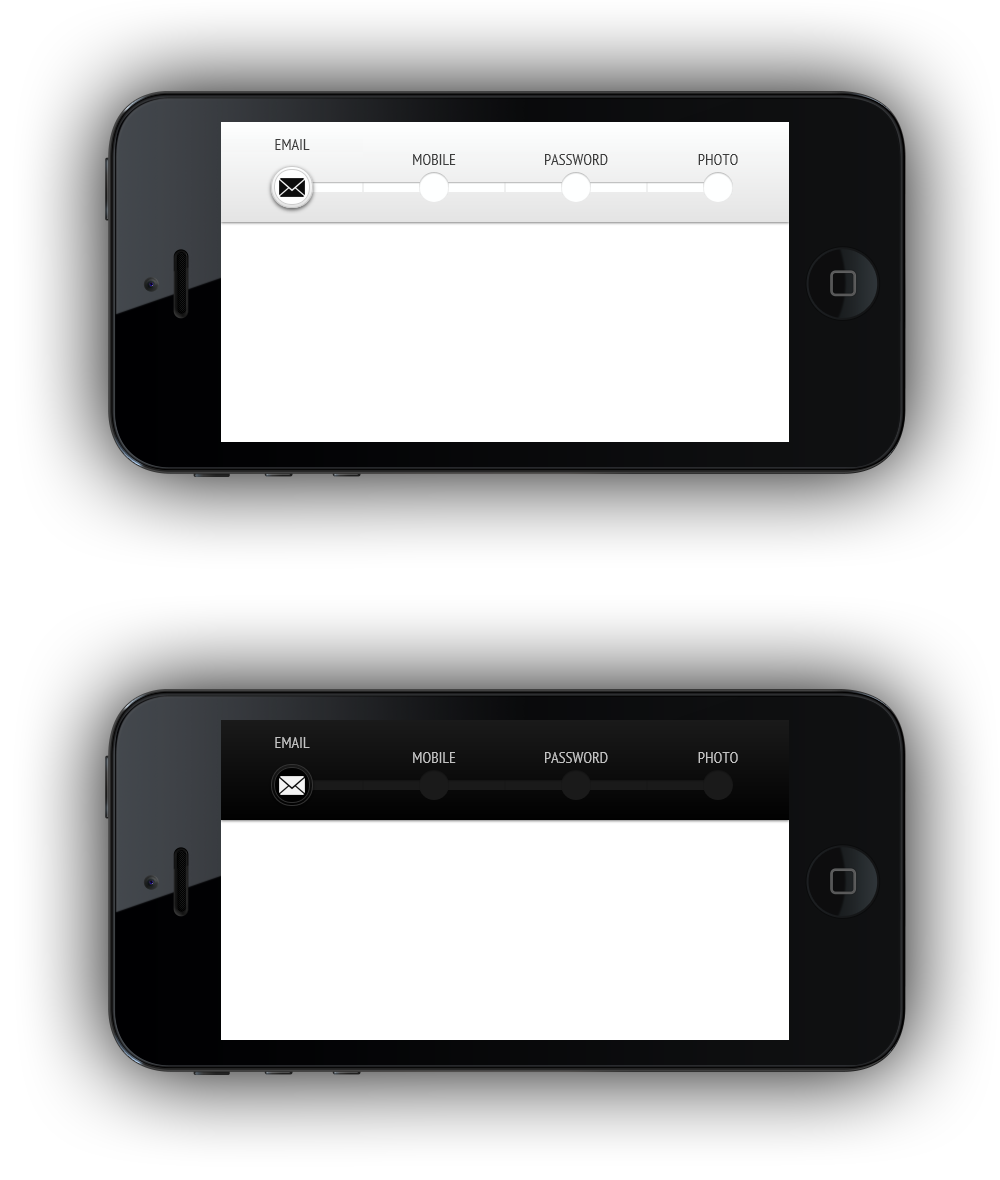
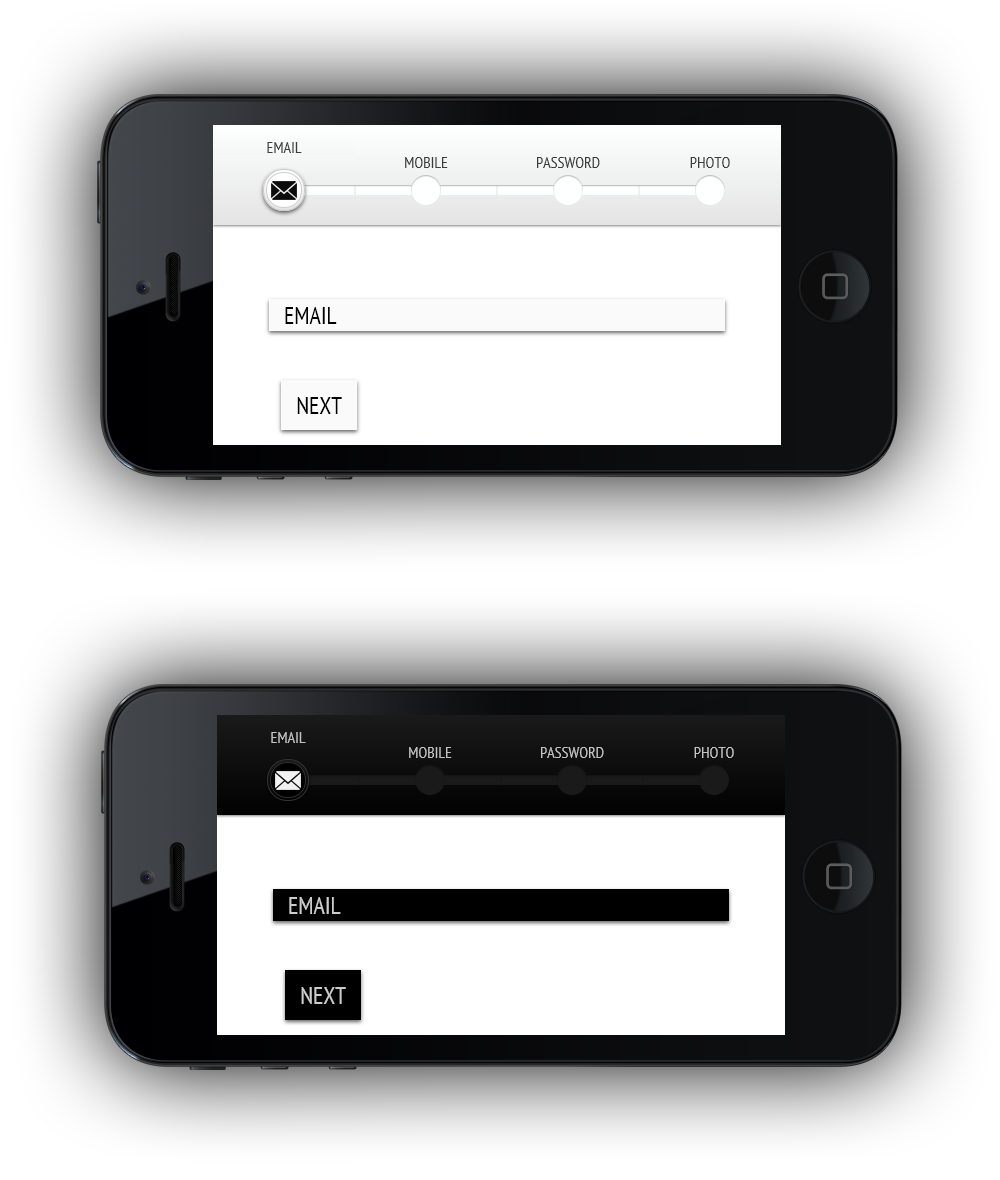
UBERIZE v1.0.0
Uberize jQuery Plugin (uber app form)

diff --git a/jquery.UBERIZE.js b/jquery.UBERIZE.js
@@ -7,6 +7,8 @@
  *
  * LEGEND:
  * lT 	= label text (example/default is 4 labels)
+ * iFT 	= input field type (example/default is 4 fields)
+ * iBT 	= input button type (example/default is 4 fields)
  * lTC 	= label text color
  * piXY = puck icons XY coordinates (example/default is 4 icons)
  * mBC 	= main background color is made of 3 rgb values (top and bottom colors and opacity)
@@ -17,6 +19,10 @@
  * lBC 	= line background color is made of 3 rgb values (top and bottom colors and opacity)
  * cBC 	= circle background color is made of 3 rgb values (top and bottom colors and opacity)
  * mW 	= main width
+ * iFBC = input field background color
+ * iBBC = input button background color
+ * iFTC = input field text color
+ * iBTC = input button text color
  *
  * USAGE:
  * $('some_div').uberize({name1:'value1',name2:'value2',etc...});
@@ -24,6 +30,8 @@
 ;(function($) {
 var defaults = {
 lT:['EMAIL','MOBILE','PASSWORD','PHOTO'],
+iFT:['email','tel','password','file'],
+iBT:['button','button','button','submit'],
 lTC:'#CCC',
 piXY:['0 0','0 -34px','0 -68px','0 -102px'],
 mBC:['26,26,26','1,1,1','1'],
@@ -33,9 +41,13 @@ pI:['#000','icons_white.png'],
 pIBC:'#333',
 lBC:['26,26,26','26,26,26','1'],
 cBC:['26,26,26','26,26,26','1'],
-mW:'100%'
+mW:'100%',
+iFBC:'#000',
+iBBC:'#000',
+iFTC:'#CCC',
+iBTC:'#CCC'
 };
-$.fn.uberize = function(options) {	
+$.fn.uberize = function(options) {
 options = $.extend(true,{},defaults,options);
 return this.each(function() {
 var elem = this, $elem = $(elem);
@@ -46,10 +58,19 @@ $('<div>',{id:'labelTop'}).appendTo(this);
 $('<div>',{id:'labelBottom'}).appendTo(this);
 $('<div>',{id:'circles'}).appendTo(this);
 $('<div>',{id:'puck'}).append($('<div>',{id:'puckPlacer'}).append($('<div>',{id:'puckBgnd'}).append($('<div>',{id:'puckIcon'})))).appendTo(this);
+$('<div id=\''+elem.id+'Form\'></div>').insertAfter(this);
+$('<form>',{name:'uberForm',id:'uberForm',method:'post',enctype:'multipart/form-data'}).appendTo('#'+elem.id+'Form');
 for(var i=0;i<maxNumber;i++) {
 $('<div>',{id:'labelTop'+(i+1),class:'uberLabelTop',html:options.lT[i]}).appendTo('#labelTop');
 $('<div>',{id:'labelBottom'+(i+1),class:'uberLabelBottom',html:options.lT[i]}).appendTo('#labelBottom');
 $('<div>',{id:'circlePlacer'+(i+1),class:'uberCirclePlacer'}).append($('<div>',{id:'circle'+(i+1),class:'uberCircle'}),$('<div>',{id:'line'+(i+1),class:'uberLine'})).appendTo('#circles');
+$('<div>',{id:'stepField'+(i+1)}).appendTo('#uberForm');
+$('#stepField'+(i+1)).css({display:(((i+1)==1)?'block':'none'),minHeight:'100px',position:'relative'});
+if (options.iFT[i]=='file') $('<input>',{name:options.lT[i].toLowerCase(),type:options.iFT[i],accept:'image/*;capture=camera',class:'uberField',style:'background-color:'+options.iFBC+';color:'+options.iFTC+';'}).appendTo('#stepField'+(i+1));
+else $('<input>',{name:options.lT[i].toLowerCase(),type:options.iFT[i],placeholder:options.lT[i],class:'uberField',style:'background-color:'+options.iFBC+';color:'+options.iFTC+';'}).appendTo('#stepField'+(i+1));
+$('<div>',{id:'stepButton'+(i+1)}).appendTo('#uberForm');
+$('#stepButton'+(i+1)).css({display:(((i+1)==1)?'block':'none'),minHeight:'100px',position:'relative'});
+$('<button>',{id:'stepok'+(i+1),type:options.iBT[i],text:(((i+1)==maxNumber)?'SUBMIT':'NEXT'),class:'uberButton',style:'background-color:'+options.iBBC+';color:'+options.iBTC+';'}).appendTo('#stepButton'+(i+1));
 $('.uberLabelTop,.uberLabelBottom,.uberCirclePlacer,#puckPlacer').css({width:labelWidth});
 if ((i+1)==1) $('#line'+(i+1)).css({width:'50%',float:'right'});
 if ((i+1)==maxNumber) $('#line'+(i+1)).css({width:'50%',float:'left'});
@@ -57,13 +78,34 @@ $('#labelTop'+(i+1)).css({visibility:(((i+1)==1)?'visible':'hidden')});
 $('#labelBottom'+(i+1)).css({visibility:(((i+1)==1)?'hidden':'visible')});
 (function(j) {
 $('#labelBottom'+j+',#circle'+j).click(function(event) {
-$('#puck').stop().animate({'left':$('#circle'+j).position().left+'px'},"slow","swing",function(){$('#puckIcon').css({backgroundPosition:options.piXY[j-1]});});
+$('#puck').stop().animate({'left':$('#circle'+j).position().left+'px'},'slow','swing',function(){$('#puckIcon').css({backgroundPosition:options.piXY[j-1]});});
 $('#labelTop'+j).css({visibility:'visible'});
 $('#labelBottom'+j).css({visibility:'hidden'});
-for(var k=1;k<=maxNumber;k++){
-if (k!=j){
+$('#stepField'+j).css({display:'block'});
+$('#stepButton'+j).css({display:'block'});
+for(var k=1;k<=maxNumber;k++) {
+if (k!=j) {
 $('#labelTop'+k).css({visibility:'hidden'});
 $('#labelBottom'+k).css({visibility:'visible'});
+$('#stepField'+k).css({display:'none'});
+$('#stepButton'+k).css({display:'none'});
+}}
+event.preventDefault();
+});
+})(i+1);
+(function(j) {
+$('#stepok'+j).click(function(event) {
+$('#puck').stop().animate({'left':$('#circle'+(j+1)).position().left+'px'},'slow','swing',function(){$('#puckIcon').css({backgroundPosition:options.piXY[j]});});
+$('#labelTop'+(j+1)).css({visibility:'visible'});
+$('#labelBottom'+(j+1)).css({visibility:'hidden'});
+$('#stepField'+(j+1)).css({display:'block'});
+$('#stepButton'+(j+1)).css({display:'block'});
+for(var k=1;k<=maxNumber;k++) {
+if (k!=(j+1)) {
+$('#labelTop'+k).css({visibility:'hidden'});
+$('#labelBottom'+k).css({visibility:'visible'});
+$('#stepField'+k).css({display:'none'});
+$('#stepButton'+k).css({display:'none'});
 }}
 event.preventDefault();
 });
@@ -74,6 +116,7 @@ $('#puckBgnd').css({background:'linear-gradient(to bottom,rgba('+options.pBC[0]+
 $('#puckIcon').css({background:options.pI[0]+' url('+options.pI[1]+') 0 0',border:options.pIBC+' 1px solid'});
 $('.uberLine').css({background:'linear-gradient(to bottom,rgba('+options.lBC[0]+','+options.lBC[2]+') 0%,rgba('+options.lBC[1]+','+options.lBC[2]+') 100%)'});
 $('.uberCircle').css({background:'linear-gradient(to bottom,rgba('+options.cBC[0]+','+options.cBC[2]+') 0%,rgba('+options.cBC[1]+','+options.cBC[2]+') 100%)'});
+$('#'+elem.id+'Form').css({clear:'both',width:options.mW,color:options.lTC});
 });
 return this;
 }

diff --git a/scripts.js b/scripts.js
@@ -1,7 +1,7 @@
 $(document).ready(function() {
 //black menu
-$('#uberDiv').uberize({lT:['EMAIL','MOBILE','PASSWORD','PHOTO'],lTC:'#CCC',iXY:['0 0','0 -34px','0 -68px','0 -102px'],mBC:['26,26,26','1,1,1','1'],pBC:['26,26,26','1,1,1','1'],pBBC:'#333',pI:['#000','icons_white.png'],pIBC:'#333',lBC:['26,26,26','26,26,26','1'],cBC:['26,26,26','26,26,26','1'],mW:'100%'});
+$('#uberDiv').uberize({lT:['EMAIL','MOBILE','PASSWORD','PHOTO'],iFT:['email','tel','password','file'],iBT:['button','button','button','submit'],lTC:'#CCC',iXY:['0 0','0 -34px','0 -68px','0 -102px'],mBC:['26,26,26','1,1,1','1'],pBC:['26,26,26','1,1,1','1'],pBBC:'#333',pI:['#000','icons_white.png'],pIBC:'#333',lBC:['26,26,26','26,26,26','1'],cBC:['26,26,26','26,26,26','1'],mW:'100%',iFBC:'#000',iBBC:'#000',iFTC:'#CCC',iBTC:'#CCC'});
 //white menu
-//$('#uberDiv').uberize({lT:['EMAIL','MOBILE','PASSWORD','PHOTO'],lTC:'#333',iXY:['0 0','0 -34px','0 -68px','0 -102px'],mBC:['254,255,255','228,228,228','1'],pBC:['254,255,255','228,228,228','1'],pBBC:'#CCC',pI:['#FFF','icons_black.png'],pIBC:'#CCC',lBC:['254,255,255','254,255,255','1'],cBC:['254,255,255','254,255,255','1'],mW:'100%'});
+//$('#uberDiv').uberize({lT:['EMAIL','MOBILE','PASSWORD','PHOTO'],iFT:['email','tel','password','file'],iBT:['button','button','button','submit'],lTC:'#333',iXY:['0 0','0 -34px','0 -68px','0 -102px'],mBC:['254,255,255','228,228,228','1'],pBC:['254,255,255','228,228,228','1'],pBBC:'#CCC',pI:['#FFF','icons_black.png'],pIBC:'#CCC',lBC:['254,255,255','254,255,255','1'],cBC:['254,255,255','254,255,255','1'],mW:'100%',iFBC:'#FAFAFA',iBBC:'#FAFAFA',iFTC:'#000',iBTC:'#000'});
 $('<link/>',{rel:"stylesheet",type:"text/css",href:"jquery.UBERIZE.css"}).appendTo("head");
 });

diff --git a/jquery.UBERIZE.css b/jquery.UBERIZE.css
@@ -82,3 +82,33 @@ border-radius:17px;
 margin:2px;
 opacity:0.95;
 }
+.uberField {
+height:30px;
+width:75%;
+position:absolute;
+top:0;
+left:0;
+right:0;
+bottom:0;
+margin:auto;
+border:none;
+-webkit-box-shadow:0px 2px 6px 0px rgba(0,0,0,0.6);
+-moz-box-shadow:0px 2px 6px 0px rgba(0,0,0,0.6);
+box-shadow:0px 2px 6px 0px rgba(0,0,0,0.6);
+padding-left:15px;
+padding-right:15px;
+font-size:150%;
+font-family:'PT Sans Narrow',sans-serif;
+}
+.uberButton {
+height:50px;
+margin-top:15px;
+margin-left:12%;
+padding:5px 15px;
+border:none;
+-webkit-box-shadow:0px 2px 6px 0px rgba(0,0,0,0.6);
+-moz-box-shadow:0px 2px 6px 0px rgba(0,0,0,0.6);
+box-shadow:0px 2px 6px 0px rgba(0,0,0,0.6);
+font-size:150%;
+font-family:'PT Sans Narrow',sans-serif;
+}

diff --git a/README.md b/README.md
@@ -1,4 +1,4 @@
 uberize
 =======
 
-Uberize jQuery Plugin (uber app menu)
+Uberize jQuery Plugin (uber app form)
